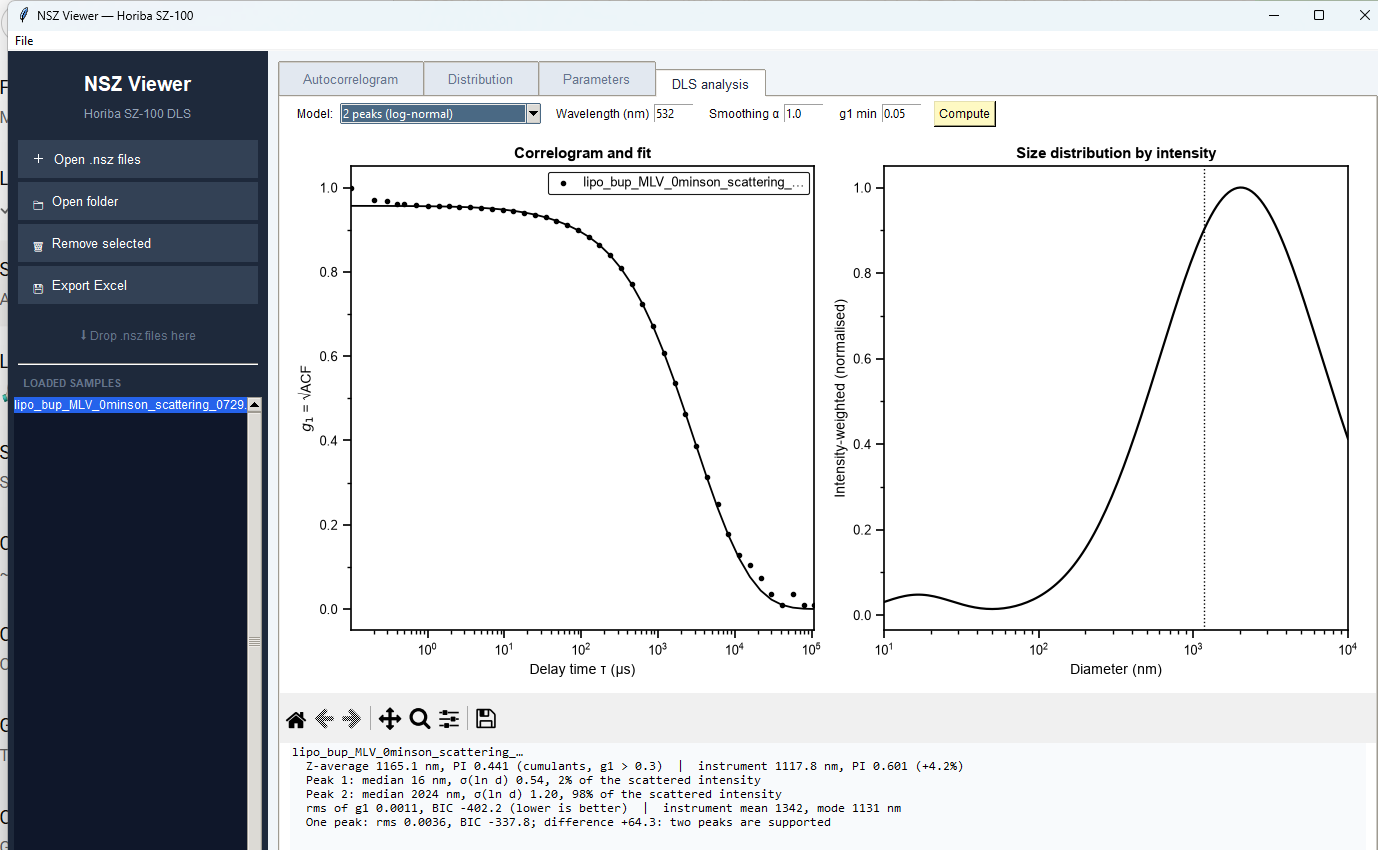
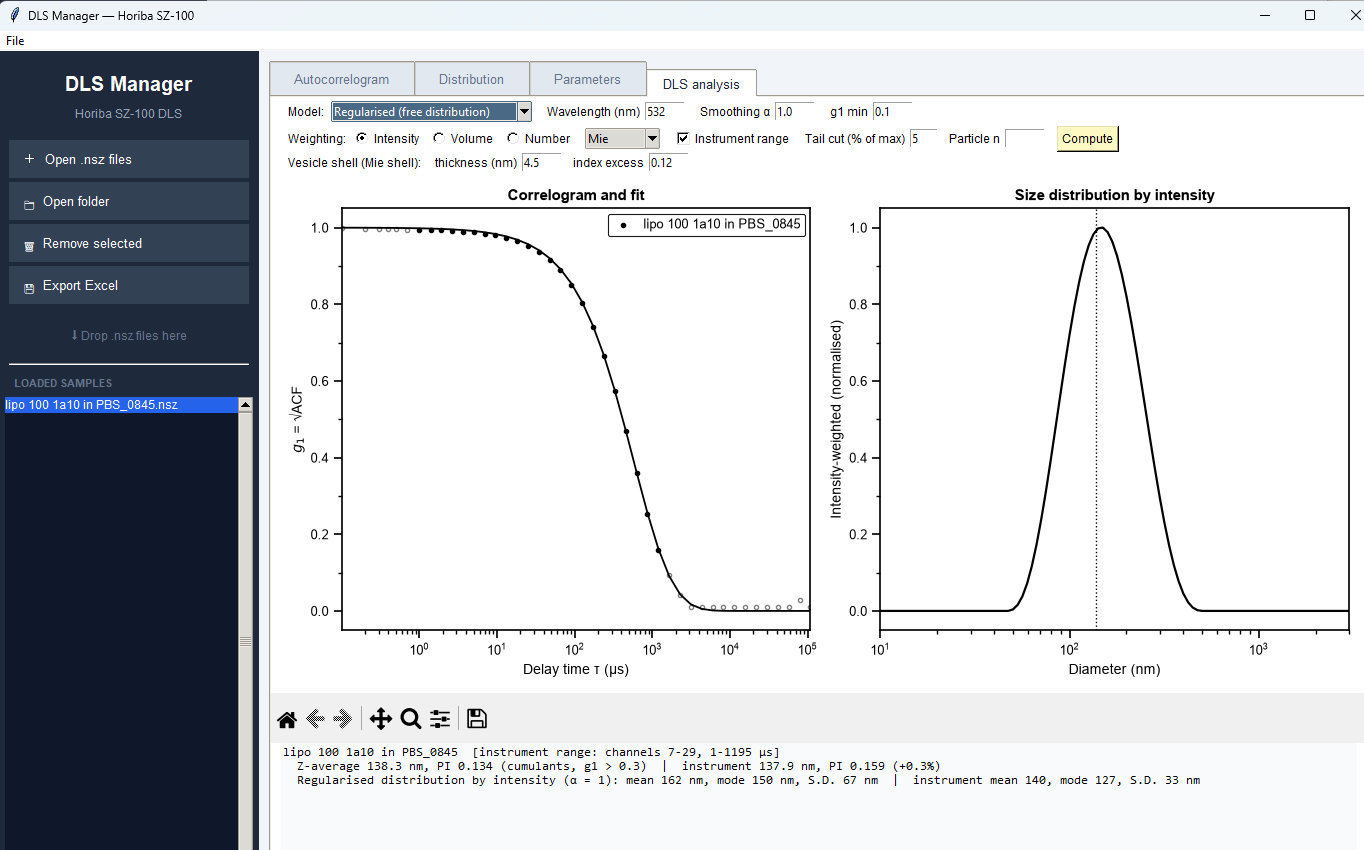
Add the vesicle (Mie shell) conversion; read the newer .nsz layout by content; new example sample and screenshots
The 2026-11-19 files number the Object streams differently (12 size bins and a wrong fit before):
sizes, intensity, cumulative, fit and residuals are now found by content, verified against the
instrument CSV for both layouts. The tests read the .nsz named in the example CSV.

diff --git a/tests/test_dls.py b/tests/test_dls.py
@@ -5,6 +5,7 @@ and the real sample in 'example data/' against the values of the instrument (ski
 """
 import importlib.util
 import os
+import sys
 import unittest
 
 import numpy as np
@@ -14,7 +15,9 @@ spec = importlib.util.spec_from_file_location("nsz", os.path.join(HERE, "..", "D
 nsz = importlib.util.module_from_spec(spec)
 spec.loader.exec_module(nsz)
 
-SAMPLE = os.path.join(HERE, "..", "example data", "lipo_bup_MLV_0minson_scattering_0729.nsz")
+sys.path.insert(0, HERE)
+from test_nsz_viewer import SAMPLE       # the .nsz that the CSV in 'example data/' was exported from
+
 
 try:
     import scipy.optimize  # noqa: F401
@@ -103,7 +106,7 @@ class TestRecord(unittest.TestCase):
         self.assertIsNone(nsz.dls_record(d))
 
 
-@unittest.skipUnless(os.path.isfile(SAMPLE) and HAS_SCIPY, "real sample or scipy not present")
+@unittest.skipUnless(SAMPLE and HAS_SCIPY, "real sample or scipy not present")
 class TestRealSample(unittest.TestCase):
     @classmethod
     def setUpClass(cls):
@@ -111,14 +114,12 @@ class TestRealSample(unittest.TestCase):
         cls.rec = nsz.dls_record(cls.d)
 
     def test_record_uses_the_conditions_of_the_file(self):
-        self.assertEqual(self.rec['angle'], 173.0)
+        self.assertEqual(self.rec['angle'], self.d['params']['Angle_deg'])
         self.assertEqual(len(self.rec['tau']), 43)
 
     def test_z_average_is_close_to_the_instrument(self):
-        # This sample is very polydisperse (PI 0.6): the cumulant fit is least reliable here; 1-2% on less
-        # polydisperse files of LabSpectrumManager, 4% on this one.
         r = nsz.dls_analyse(self.rec, nsz.DLS_MODELS[0], self.d['params']['Lambda_nm'])
-        self.assertAlmostEqual(r['z'] / self.d['params']['ZAvg_nm'], 1.0, delta=0.06)
+        self.assertAlmostEqual(r['z'] / self.d['params']['ZAvg_nm'], 1.0, delta=0.03)
 
     def test_all_models_run(self):
         for m in nsz.DLS_MODELS:
@@ -219,6 +220,29 @@ class TestMie(unittest.TestCase):
         a = nsz.dls_reweight_peaks(peaks, "Number")[0]['median']
         b = nsz.dls_reweight_peaks(peaks, "Number", np.geomspace(5, 1e4, 4000), np.geomspace(5, 1e4, 4000) ** 6)[0]['median']
         self.assertAlmostEqual(a, b, delta=0.01 * a)
+
+
+@unittest.skipUnless(HAS_SCIPY, "scipy not installed")
+class TestMieShell(unittest.TestCase):
+    def test_a_shell_as_thick_as_the_radius_is_a_solid_sphere(self):
+        d = np.array([30.0, 130.0, 600.0])
+        for angle in (90.0, 173.0):
+            shell = nsz.mie_shell_intensity(d, 532.0, 1.333, 0.12, 1e5, angle)
+            solid = nsz.mie_intensity(d, 532.0, 1.333, 1.333 + 0.12, angle)
+            np.testing.assert_allclose(shell, solid, rtol=1e-6)
+
+    def test_a_thin_shell_scatters_like_d4_not_d6(self):
+        d = np.array([30.0, 60.0])
+        i = nsz.mie_shell_intensity(d, 532.0, 1.333, 0.12, 4.5, 90.0)
+        self.assertAlmostEqual(np.log(i[1] / i[0]) / np.log(2.0), 4.0, delta=0.5)
+
+    def test_shell_conversion_is_available_in_the_tab_conversions(self):
+        self.assertIn("Mie shell", nsz.DLS_CONVERSIONS)
+        rec = dict(COND)
+        d = np.geomspace(20, 800, 12)
+        i1 = nsz.dls_per_particle(d, "Mie shell", rec, 532.0, 1.6, (4.5, 0.12))
+        self.assertEqual(i1.shape, d.shape)
+        self.assertTrue(np.all(i1 > 0))
 
 
 class TestWeighting(unittest.TestCase):
@@ -344,6 +368,17 @@ class TestDlsTab(unittest.TestCase):
         self.app.dls_conv.set("Rayleigh")
         self.app._plot_dls()
         self.assertIn("Rayleigh", self.app.dls_text.get("1.0", "end"))
+
+    def test_mie_shell_conversion_in_the_tab(self):
+        self.app.notebook.select(self.app.tab_dls)
+        self.app.dls_weight.set("Number")
+        self.app.dls_conv.set("Mie shell")
+        self.app.dls_vars['shell_t'].set("9")
+        self.app._plot_dls()
+        self.assertIn("Mie shell, t 9 nm", self.app.dls_text.get("1.0", "end"))
+        self.app.dls_vars['shell_t'].set("abc")                       # invalid: back to the defaults
+        self.app._plot_dls()
+        self.assertIn("t 4.5 nm", self.app.dls_text.get("1.0", "end"))
 
     def test_models_and_invalid_settings(self):
         self.app.notebook.select(self.app.tab_dls)

diff --git a/tests/test_nsz_viewer.py b/tests/test_nsz_viewer.py
@@ -22,9 +22,28 @@ nsz = importlib.util.module_from_spec(spec)
 spec.loader.exec_module(nsz)
 
 DATA = os.path.join(HERE, "..", "example data")
-SAMPLE = os.path.join(DATA, "lipo_bup_MLV_0minson_scattering_0729.nsz")
-SAMPLE_CSV = os.path.join(DATA, "lipo_bup_MLV_0minson_scattering_0731.csv")
-HAS_SAMPLE = os.path.isfile(SAMPLE) and os.path.isfile(SAMPLE_CSV)
+
+
+def find_sample():
+    """(nsz, csv) of the real sample: the CSV in 'example data/' names the .nsz it was exported from in its first item
+    line; that file is looked for next to the CSV, then in the sample folders of LabSpectrumManager (the .nsz
+    placed in 'example data/' may be another measurement than the one the CSV belongs to). (None, None) if absent."""
+    import glob
+    csvs = sorted(glob.glob(os.path.join(DATA, "*.csv")))
+    if not csvs:
+        return None, None
+    with open(csvs[0], newline="", encoding="latin-1") as f:
+        rows = list(csv.reader(f))
+    name = next((r[0] for r in rows if r and r[0].lower().endswith(".nsz")), "")
+    for folder in (DATA, *glob.glob(os.path.join(HERE, "..", "..", "LabSpectrumManager", "spettri di esempio", "*"))):
+        path = os.path.join(folder, name)
+        if name and os.path.isfile(path):
+            return path, csvs[0]
+    return None, csvs[0]
+
+
+SAMPLE, SAMPLE_CSV = find_sample()
+HAS_SAMPLE = SAMPLE is not None
 
 
 def read_software_csv(path):
@@ -328,8 +347,9 @@ class TestApplication(unittest.TestCase):
         self.assertEqual(len(self.app.selected), 1)
         rows = {self.app.tree.item(i, "values")[0]: self.app.tree.item(i, "values")
                 for i in self.app.tree.get_children()}
-        self.assertEqual(rows["Z-Average (nm)"][1], "1117.7646")
-        self.assertEqual(rows["PDI"][1], "0.6013")
+        _items = read_software_csv(SAMPLE_CSV)[0]
+        self.assertAlmostEqual(float(rows["Z-Average (nm)"][1]), float(_items["Z-Average"]), delta=0.06)
+        self.assertAlmostEqual(float(rows["PDI"][1]), float(_items["PI"]), delta=0.0006)
         self.app._load_files([SAMPLE])                                          # same file again: ignored
         self.assertEqual(self.app.listbox.size(), 1)
 

diff --git a/CLAUDE.md b/CLAUDE.md
@@ -17,9 +17,13 @@ pythonw DLSManager.pyw [file.nsz ...]
 py -m unittest discover -s tests -v
 ```
 
-Sample data: `example data/lipo_bup_MLV_0minson_scattering_0729.nsz` and the software CSV of the same measurement
-`..._0731.csv` (gitignored: real data, never commit). Tk tests need a screen; tests that need the sample are skipped
-without it. The two `screenshot*.png` are the real program with that sample (`ImageGrab` on the window, topmost).
+Sample data: `example data/` holds a software CSV (changed 2026-11-20 by Francesco to `lipo 100 1a10 in PBS_0845.csv`; gitignored:
+real data, never commit). **Its header names `..._0843.nsz`, not `_0845`**: the `.nsz` next to it is another replicate, so the
+tests (`find_sample()` in `tests/test_nsz_viewer.py`) read the `.nsz` named in the CSV and look for it next to the CSV, then in the
+`spettri di esempio` folders of LabSpectrumManager (where `_0843` is). Putting `lipo 100 1a10 in PBS_0843.nsz` into `example data/`
+would make the folder self-contained. The earlier sample (`lipo_bup_MLV_0minson_scattering_0729.nsz` + `_0731.csv`, June layout) is
+only in the Drive mirror's history. Tk tests need a screen; tests that need the sample are skipped without it. The three
+`screenshot*.png` are the real program with the `_0845` file (window grabbed with `CopyFromScreen`, cropped).
 
 ## Architecture
 
@@ -34,6 +38,7 @@ samples), `_write_xlsx` writes one workbook per sample, `_to_number_dist` conver
 
 | Stream | Content and how it is read |
 |---|---|
+| *layouts* | **The `Object` numbers depend on the software version.** The 2026-06 file: sizes `Object5`, intensity `Object4`, cumulative `Object31`, fit `Object10`, residuals `Object7`. The 2026-11-19 files: `Object6`, `Object5`, `Object32`, `Object11`, `Object8` (`Object4` is a 114 kB blob). `_nsz_curves()` finds them by content (101 floats ending near 8510 = diameters; 88 floats summing to 100 = intensity, rising to 100 = cumulative; the stream of 3 + (`Dist_ChannelTo` - `Dist_ChannelFrom` + 1) floats closest to the ACF = fit g2-1, the small-valued one most correlated with ACF - fit = residuals) and the old names are only a fallback. Before this (fixed 2026-11-20) the newer files gave 12 size bins and a wrong fit. Verified against the CSV of `_0843` (new layout): Z, PI, mean, mode, the three tables, correlation and fit (5e-7) and the residual pattern (0.88 at offset 1); and again the June file |
 | `Object3` | lag times: 16 header floats, then tau (µs); trailing repeated baseline channels are cut where tau stops increasing (43 -> 37 channels in the sample) |
 | `Object2` | correlation (same numbers as `OriginalACF`): 3 header floats, then one value per channel. These are **g1 squared** (g2-1): the software's CSV g1 equals `sqrt(value)` to 5e-7, CSV row k = channel 7 + k |
 | `Object10` | fit: header `[1][n_fit][fit_offset]`, then values; `fit_offset` (6) = initial channels excluded from the fit; also g1 squared, CSV fit row k = `sqrt(fit[k+1])` |
@@ -72,6 +77,8 @@ unrestricted); the tab's 'Instrument range' checkbox (on by default) draws the e
 (the g1 minimum already cuts the tail): 450 nm liposomes, mean/mode 453/475 with and without; it does not explain the gap to the
 instrument's 413/380. `ChannelsCumuFrom/To` (1-41) and `FlAutoChannels` (2) are also in the file, not used.
 
+Mie shell conversion (`mie_shell_intensity`, `DLS_CONVERSIONS` 'Mie shell'): a vesicle as a coated sphere with a core of the medium, shell thickness (default 4.5 nm) and index excess (0.12), the defaults and the coefficients of LabSpectrumManager's vesicle model; the tab has the two entries on a third row. Checked: with a shell thicker than the radius it equals the solid-sphere Mie to 1e-6, and a thin shell scatters ~d^4 at small sizes (instead of d^6). Volume stays the outer-sphere volume d^3 (not the lipid volume). The shell parameters are order-of-magnitude assumptions (a multilamellar vesicle needs a larger thickness), and no instrument value was compared.
+
 Weighting selector (`dls_reweight`, `dls_reweight_peaks`, `dls_stats`, `dls_floor`, `DLS_WEIGHTS`, `DLS_CONVERSIONS`): number = p / I1,
 volume = p d^3 / I1 on the log grid, with I1 = light one particle scatters, from `mie_intensity` (Bohren-Huffman, |S1|^2, vertical
 polarisation, homogeneous non-absorbing sphere, index `MeasSampleRef` of the file = `params['n_particle']`, 1.6 default in the
@@ -91,13 +98,13 @@ Verified on 15 polystyrene latex measurements (the `20261119 DLS lattice e lipos
 support for a second peak at 173 degrees (BIC difference -8..-9); at 90 degrees the 2-peak fit wins on BIC but its second peak
 (14-31%) is at the sigma bound 1.2, so it is a tail, not a population. PI is within ~0.03-0.08 of the instrument's, either way.
 Also verified in LabSpectrumManager on four files; the two-peak split is ill-posed and only sensible for sizes ~3x apart.
-Verified on the `example data` sample (PI 0.6): Z-average +4.2%, PI 0.44 against 0.60; the free
+Verified on the June sample (`lipo_bup_MLV..._0729`, PI 0.6): Z-average +4.2%, PI 0.44 against 0.60; the free
 inversion has its mode at the 3000 nm limit and the peak fits reach sigma 1.2 (bound), so for this aggregated sample the sizes of
 the distribution are not reliable beyond the Z-average. Not done: the DLS results are not in the Excel export.
 
 ## Verified / not verified
 
-- Verified on **one** measurement against the software CSV: Mean, SD, Mode, Z-average, PDI; size table (diameter,
+- Verified on **two** measurements (one per software version) against the software CSV: Mean, SD, Mode, Z-average, PDI; size table (diameter,
   frequency, undersize); correlation and fit (as g1 squared). See `tests/test_nsz_viewer.py::TestRealSample`.
 - The correlation is plotted as stored (g2-1, label `g2(tau) - 1`); the software shows g1. Offer to switch to g1
   (`sqrt`) if Francesco wants the same curve as the software.

diff --git a/README.md b/README.md
@@ -8,7 +8,7 @@ exports everything to Excel.
 
 > **Unofficial.** This project is not affiliated with or endorsed by Horiba. The `.nsz`
 > format was worked out by inspecting files, and the extracted values were validated against
-> the CSV exported by the instrument software on a single sample (see "Validation" below). Check the results
+> the CSV exported by the instrument software on two measurements, one for each of the two file layouts below (see "Validation" below). Check the results
 > against your own exports before relying on them, especially with other instrument models.
 
 ![Autocorrelogram tab](screenshot.png)
@@ -65,10 +65,13 @@ files are missing.
 
 ## Validation
 
-On one sample (a single `.nsz` and the CSV of the same measurement) the viewer matches the software for: mean, SD, mode,
-Z-average and PDI; the 84-bin size distribution (frequency and cumulative); and the correlation function and its fit
-(the file holds g₁², the CSV g₁; the residuals follow the same pattern but are not equal). Not verified: other
-instrument models or software versions, measurements with two peaks, and the date/time (the time is read from the
+The `.nsz` layout changed between software versions (the `Object` streams are numbered differently, the measurement
+parameters moved from `Base34`/`Base38` to `Base35`/`Base39`), so the program finds the curves by their content. It was
+checked against the CSV that the instrument software exported for the same measurement, on one file of each version (June
+2026: a multilamellar liposome sample; 19 November 2026: `lipo 100 1a10 in PBS`). In both the program matches the software for:
+mean, SD, mode, Z-average and PDI; the 84-bin size distribution (frequency and cumulative); and the correlation function and its
+fit (the file holds g₁² in the older layout, the CSV g₁; the residuals follow the same pattern but are not equal). Not verified:
+other instrument models, measurements with two peaks, and the date/time of the older file (the time is read from the
 measurement ID and showed `12:22:00` for a measurement that the software dates `12:22:39`).
 
 The DLS analysis was checked on 15 measurements of a polystyrene latex (certified 130 nm by TEM; 1:100 to 1:800 in 10 mM
@@ -77,7 +80,7 @@ the mode of the free distribution equals the instrument's at 173° (142 nm) and 
 (σ of ln d about 0.25) for which a second peak is not supported (BIC). At 90° the two-peak model does improve the BIC, but the
 second peak (15-30%) sits at the width limit of the fit, which is not credible for a latex: read it as a tail, not a
 population. The PI is noisy from file to file (it often differs from the instrument's by 0.03-0.08). On the very
-polydisperse sample of `example data/` (PI 0.6) the Z-average is 4% above the instrument's, the free inversion piles up at
+polydisperse sample of June (PI 0.6, a multilamellar liposome preparation) the Z-average is 4% above the instrument's, the free inversion piles up at
 the upper size limit (3000 nm) and the peak fits hit their width limit: the methods are at the edge of their validity for
 such a sample. The two-peak split is an ill-posed inversion: it is not stable between replicates and is only meaningful for sizes
 that differ by about 3 times or more; the BIC difference is shown for that reason.
@@ -105,9 +108,9 @@ An `.nsz` file is an OLE compound file. The viewer reads these streams:
 |---|---|
 | `Delay`, `OriginalACF` (inside one stream) | The 43 lag times (seconds) and the normalised correlation g₂−1, each array preceded by its byte length |
 | `Object2`, `Object3` | Same correlation, but `Object3` lacks the first 6 lag times, so the program no longer uses it (kept as a fallback) |
-| `Object10`, `Object7` | Fit and residuals; the header holds the number of initial channels excluded from the fit |
-| `Object5`, `Object4`, `Object31` | Size bins (84), intensity distribution, cumulative distribution |
-| `Base1`, `Base34`, `Base38` | Calculated results, measurement parameters, sample name |
+| fit and residual streams (`Object10`, `Object7` or `Object11`, `Object8`) | Fit and residuals of the channels the instrument used for the distribution (from channel 7) |
+| size bins, intensity and cumulative distribution (`Object5`, `Object4`, `Object31` or `Object6`, `Object5`, `Object32`) | 84 bins each |
+| `Base1`, `Base34`/`Base35`, `Base38`/`Base39` | Calculated results, measurement parameters, sample name |
 
 Two details matter when interpreting the values: the diameter fields (`CalcMean`, `CalcPeakPos`,
 `CalcPerDiameter`, `Cum_fMean`, ...) are stored as **radii**, so the viewer multiplies them by 2;
